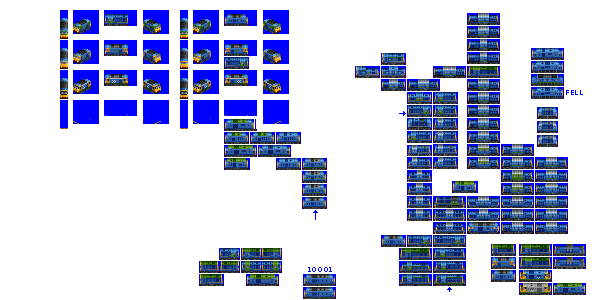
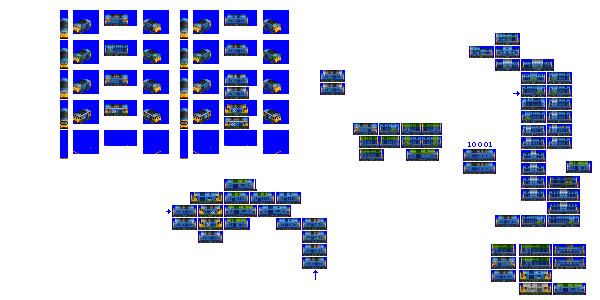
Change: livery WIP for Grillage, Highlander, tweak Yak

diff --git a/src/vehicles/pony/highlander.py b/src/vehicles/pony/highlander.py
@@ -21,9 +21,9 @@ def main(**kwargs):
         gen=4,
         caboose_family="railfreight_1",
         # note that livery names are metadata only and can repeat for different spriterows
-        liveries=["VANILLA", "BANGER_BLUE", "RAILFREIGHT_RED_STRIPE"],
-        decor_spriterow_num=3,
-        show_decor_in_purchase_for_variants=[2],
+        liveries=["BANGER_BLUE", "VANILLA", "SWOOSH", "RAILFREIGHT_RED_STRIPE"],
+        decor_spriterow_num=4,
+        show_decor_in_purchase_for_variants=[3],
         sprites_complete=False,
     )
 

diff --git a/src/vehicles/pony/grillage.py b/src/vehicles/pony/grillage.py
@@ -19,7 +19,7 @@ def main(**kwargs):
         gen=4,
         intro_year_offset=12,  # let's be later for this one
         # note that livery names are metadata only and can repeat for different spriterows
-        liveries=["VANILLA", "BANGER_BLUE", "RAILFREIGHT_RED_STRIPE", "LARGE_LOGO"],
+        liveries=["VANILLA", "SWOOSH", "BANGER_BLUE", "RAILFREIGHT_RED_STRIPE", "LARGE_LOGO"],
         sprites_complete=False,
     )
 
